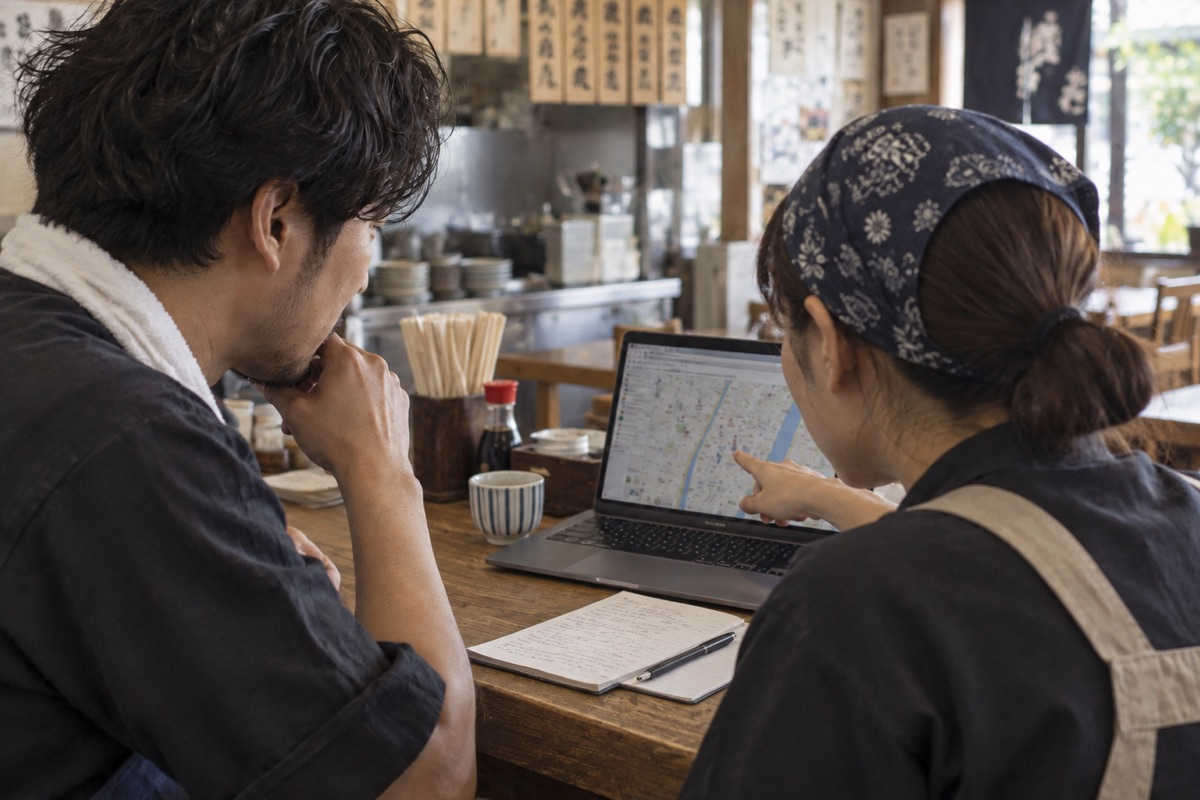
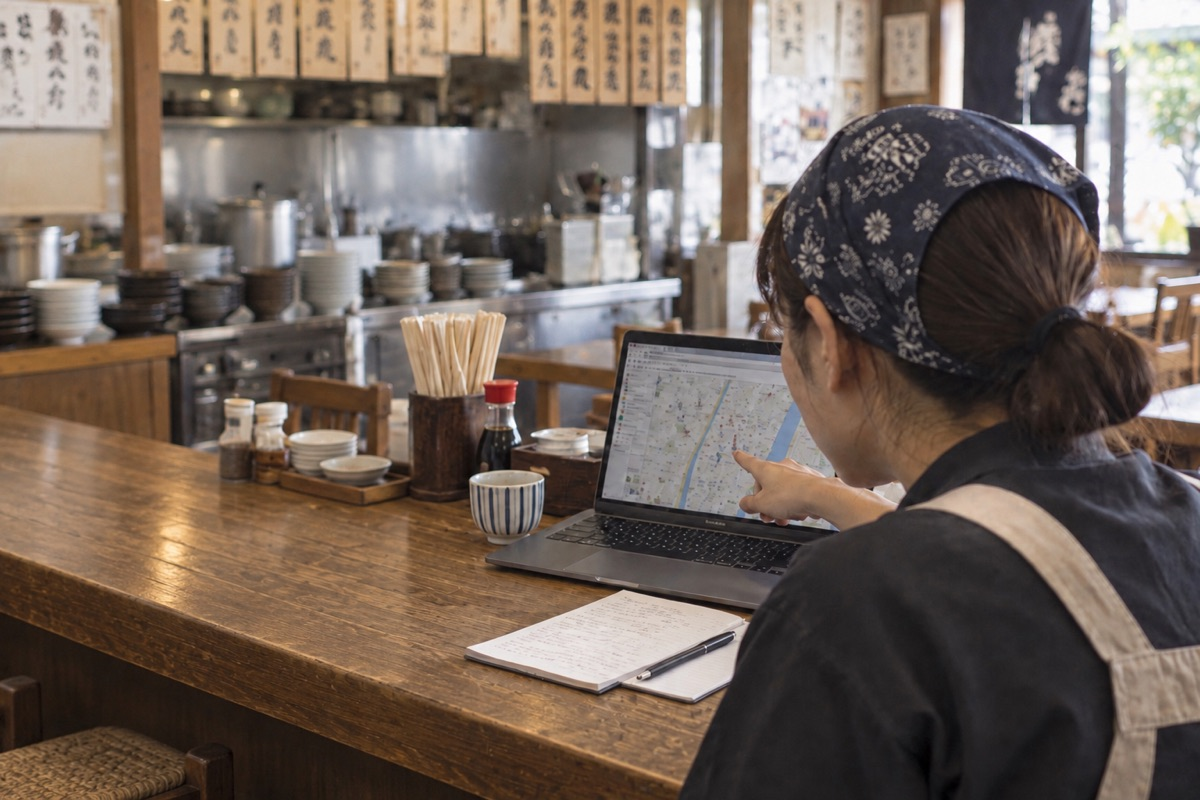
Correct MEO and event case imagery

diff --git a/index.html b/index.html
@@ -607,7 +607,7 @@ html{scroll-padding-top:96px}
 </div>
 <div class="system-case-grid jp">
 <article class="system-case">
-<img class="system-case-photo" src="assets/system-products/meo.jpg?v=3" alt="飲食店の店主とスタッフが店舗情報を確認している利用シーンのイメージ" width="1200" height="800" loading="lazy">
+<img class="system-case-photo" src="assets/system-products/meo.jpg?v=4" alt="飲食店のスタッフが店舗情報を確認している利用シーンのイメージ" width="1200" height="800" loading="lazy">
 <div class="system-case-body"><div class="system-case-heading"><span class="system-case-icon" aria-hidden="true"><svg viewBox="0 0 24 24"><path d="M12 21s7-6.1 7-12a7 7 0 1 0-14 0c0 5.9 7 12 7 12Z"/><circle cx="12" cy="9" r="2.6"/></svg></span><h3>MEO対策システム</h3></div><p>店舗のMEO対策に関わる業務を支えるシステム。</p></div>
 </article>
 <article class="system-case">
@@ -619,7 +619,7 @@ html{scroll-padding-top:96px}
 <div class="system-case-body"><div class="system-case-heading"><span class="system-case-icon" aria-hidden="true"><svg viewBox="0 0 24 24"><rect x="3" y="5" width="18" height="16" rx="2"/><path d="M7 3v4m10-4v4M3 10h18M8 14h3v3H8z"/></svg></span><h3>社内会議室予約システム</h3></div><p>社内の会議室予約と利用状況の管理を支えるシステム。</p></div>
 </article>
 <article class="system-case">
-<img class="system-case-photo" src="assets/system-products/invia.jpg?v=3" alt="イベント会場でゲストがスマートフォンのQRコードを提示している利用シーンのイメージ" width="1200" height="800" loading="lazy">
+<img class="system-case-photo" src="assets/system-products/invia.jpg?v=4" alt="イベント会場でゲストが右手のスマートフォンに表示したQRコードを提示している利用シーンのイメージ" width="1200" height="800" loading="lazy">
 <div class="system-case-body"><div class="system-case-heading"><span class="system-case-icon" aria-hidden="true"><svg viewBox="0 0 24 24"><rect x="3" y="4" width="18" height="16" rx="2"/><path d="M8 4v16M12 9h5m-5 4h5m-5 4h3"/><circle cx="5.5" cy="9" r=".5"/></svg></span><h3>イベントゲスト管理システム「INVIA」</h3></div><p>イベントのゲスト情報を管理するためのシステム。</p></div>
 </article>
 </div>
